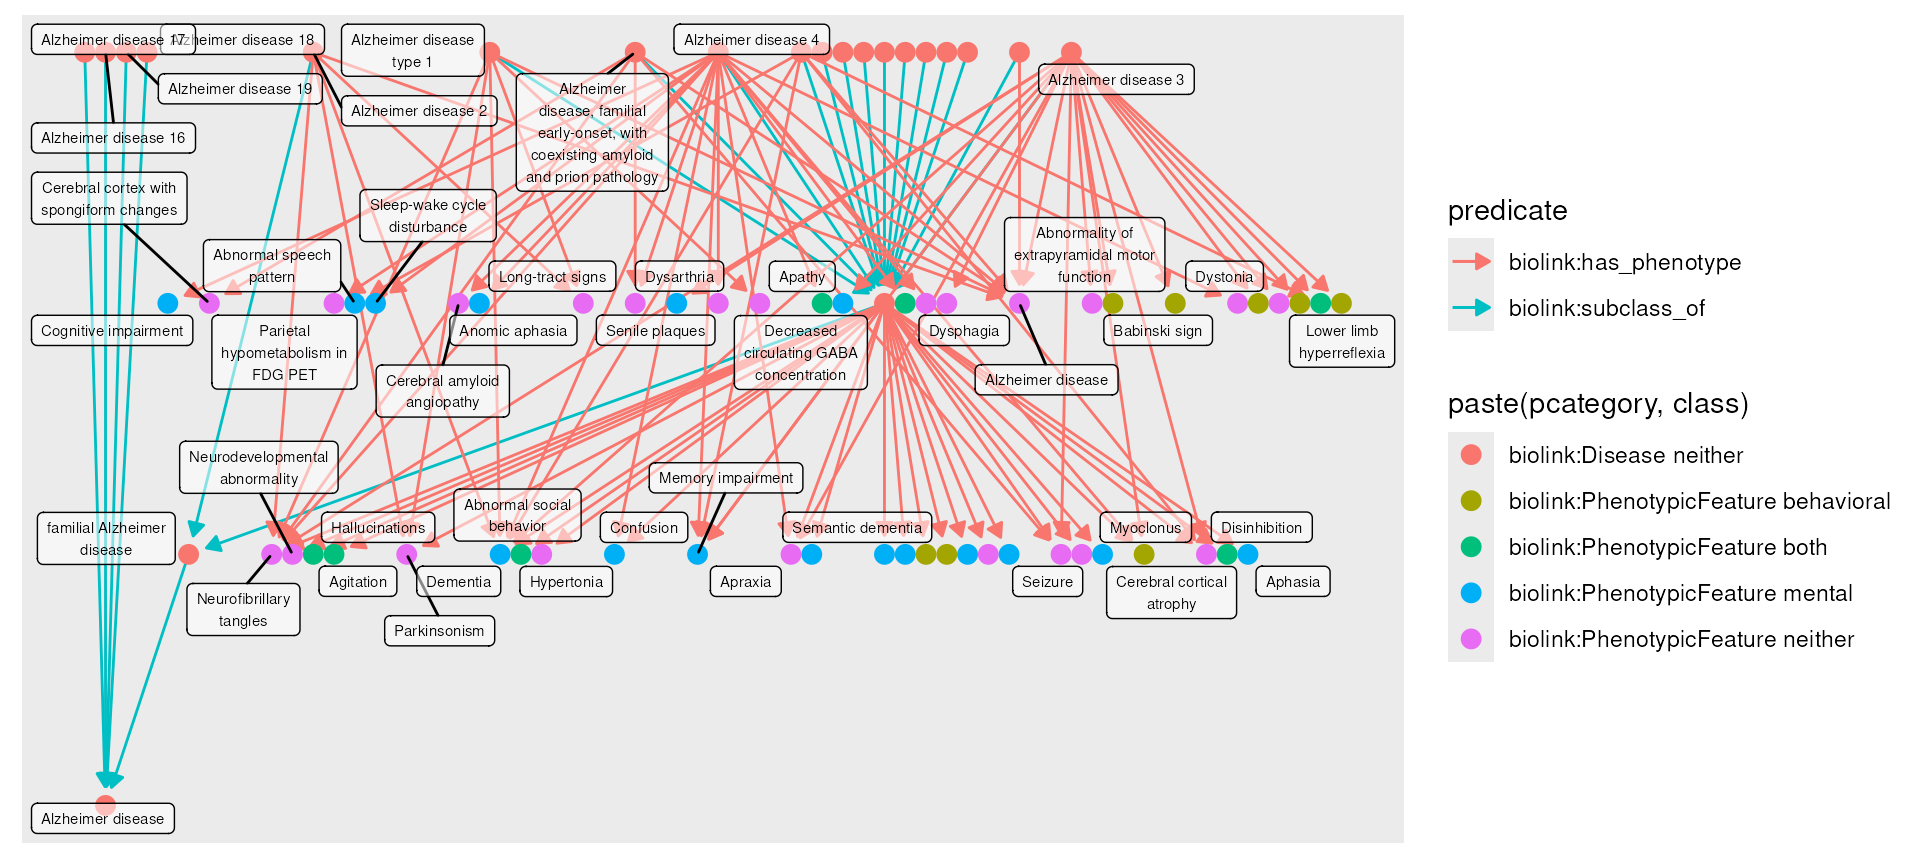
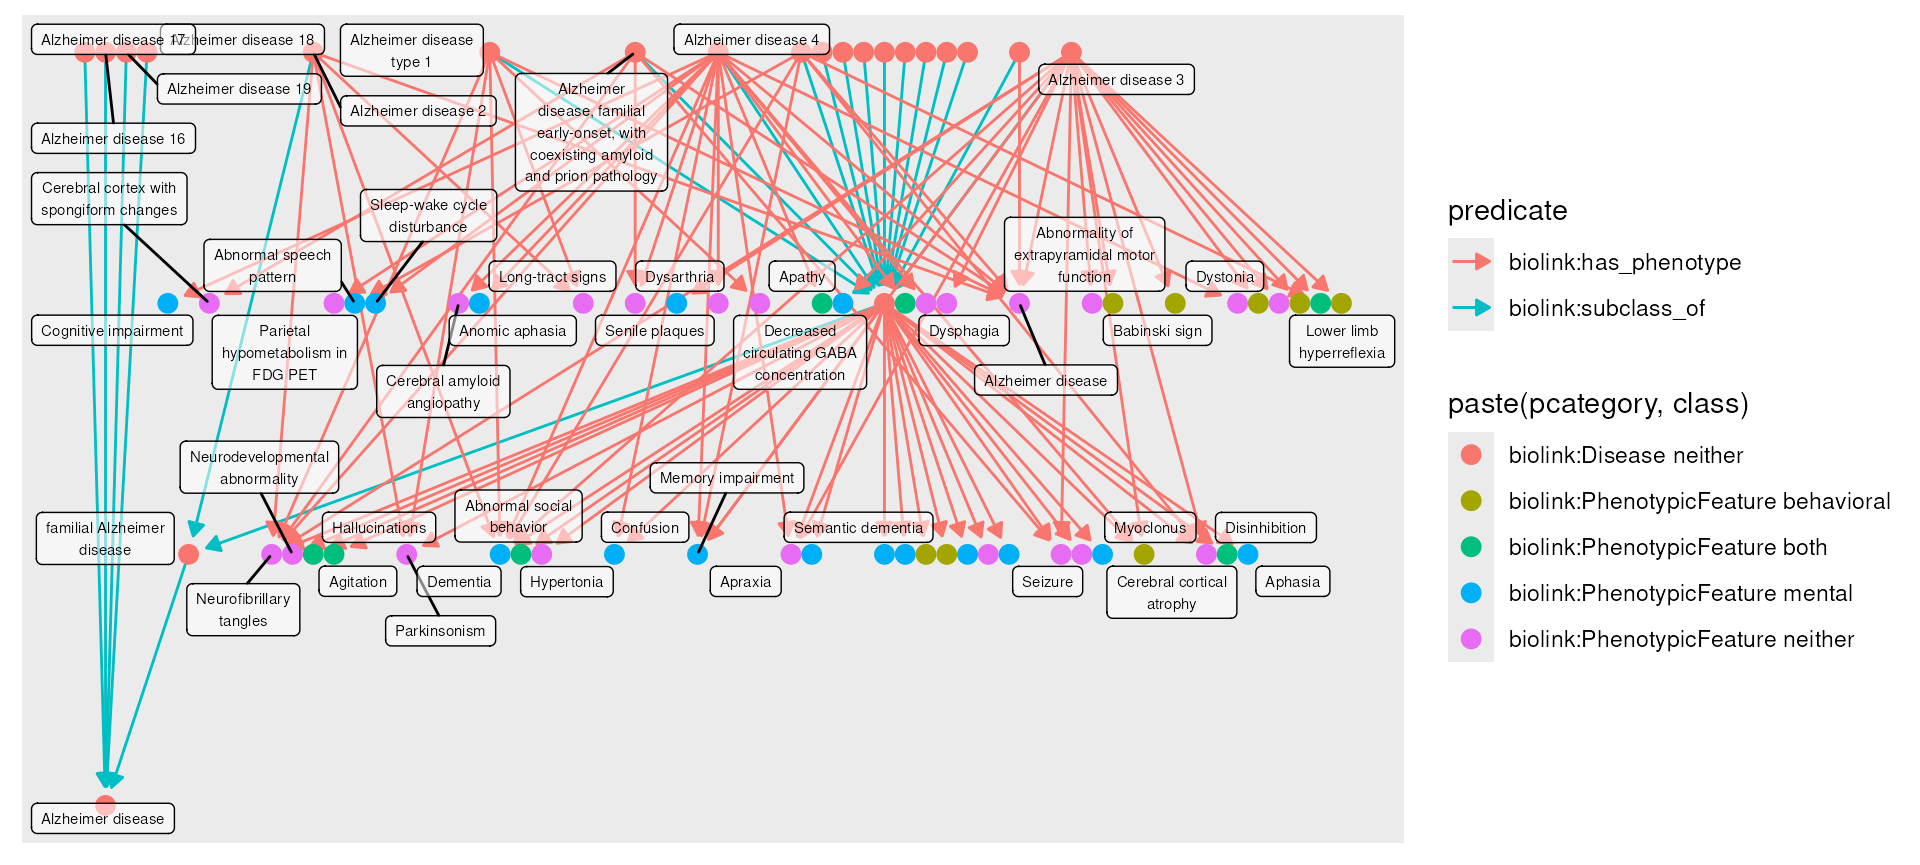
Deploying to gh-pages from @ monarch-initiative/monarchr@cc7a4bdd989ae4a79e88bc9514075943f1a7840e 🚀

diff --git a/reference/monarch_semsim.html b/reference/monarch_semsim.html
@@ -160,11 +160,11 @@ the best matches from the second graph to the first graph.</p>
 <span class="r-msg co"><span class="r-pr">#&gt;</span> Joining with `by = join_by(id, pcategory, name, description, synonym, category,</span>
 <span class="r-msg co"><span class="r-pr">#&gt;</span> iri, xref, namespace, provided_by)`</span>
 <span class="r-in"><span><span class="fu"><a href="https://rdrr.io/r/base/print.html" class="external-link">print</a></span><span class="op">(</span><span class="va">sim</span><span class="op">)</span></span></span>
-<span class="r-out co"><span class="r-pr">#&gt;</span> <span style="color: #949494;"># A tbl_graph: 135 nodes and 107 edges</span></span>
+<span class="r-out co"><span class="r-pr">#&gt;</span> <span style="color: #949494;"># A tbl_graph: 134 nodes and 107 edges</span></span>
 <span class="r-out co"><span class="r-pr">#&gt;</span> <span style="color: #949494;">#</span></span>
-<span class="r-out co"><span class="r-pr">#&gt;</span> <span style="color: #949494;"># A directed multigraph with 40 components</span></span>
+<span class="r-out co"><span class="r-pr">#&gt;</span> <span style="color: #949494;"># A directed multigraph with 39 components</span></span>
 <span class="r-out co"><span class="r-pr">#&gt;</span> <span style="color: #949494;">#</span></span>
-<span class="r-out co"><span class="r-pr">#&gt;</span> <span style="color: #949494;"># Node Data: 135 × 10 (active)</span></span>
+<span class="r-out co"><span class="r-pr">#&gt;</span> <span style="color: #949494;"># Node Data: 134 × 10 (active)</span></span>
 <span class="r-out co"><span class="r-pr">#&gt;</span>    id         pcategory name  description synonym category iri   xref  namespace</span>
 <span class="r-out co"><span class="r-pr">#&gt;</span>    <span style="color: #949494; font-style: italic;">&lt;chr&gt;</span>      <span style="color: #949494; font-style: italic;">&lt;chr&gt;</span>     <span style="color: #949494; font-style: italic;">&lt;chr&gt;</span> <span style="color: #949494; font-style: italic;">&lt;chr&gt;</span>       <span style="color: #949494; font-style: italic;">&lt;named&gt;</span> <span style="color: #949494; font-style: italic;">&lt;list&gt;</span>   <span style="color: #949494; font-style: italic;">&lt;chr&gt;</span> <span style="color: #949494; font-style: italic;">&lt;nam&gt;</span> <span style="color: #949494; font-style: italic;">&lt;chr&gt;</span>    </span>
 <span class="r-out co"><span class="r-pr">#&gt;</span> <span style="color: #BCBCBC;"> 1</span> MONDO:000… biolink:… Marf… A disorder… <span style="color: #949494;">&lt;chr&gt;</span>   <span style="color: #949494;">&lt;chr&gt;</span>    http… <span style="color: #949494;">&lt;chr&gt;</span> MONDO    </span>
@@ -177,15 +177,15 @@ the best matches from the second graph to the first graph.</p>
 <span class="r-out co"><span class="r-pr">#&gt;</span> <span style="color: #BCBCBC;"> 8</span> HP:0003199 biolink:… Decr… <span style="color: #BB0000;">NA</span>          <span style="color: #949494;">&lt;chr&gt;</span>   <span style="color: #949494;">&lt;chr&gt;</span>    http… <span style="color: #949494;">&lt;chr&gt;</span> HP       </span>
 <span class="r-out co"><span class="r-pr">#&gt;</span> <span style="color: #BCBCBC;"> 9</span> HP:0025586 biolink:… Hype… A type of … <span style="color: #949494;">&lt;lgl&gt;</span>   <span style="color: #949494;">&lt;chr&gt;</span>    http… <span style="color: #949494;">&lt;lgl&gt;</span> HP       </span>
 <span class="r-out co"><span class="r-pr">#&gt;</span> <span style="color: #BCBCBC;">10</span> HP:0000518 biolink:… Cata… A cataract… <span style="color: #949494;">&lt;chr&gt;</span>   <span style="color: #949494;">&lt;chr&gt;</span>    http… <span style="color: #949494;">&lt;chr&gt;</span> HP       </span>
-<span class="r-out co"><span class="r-pr">#&gt;</span> <span style="color: #949494;"># ℹ 125 more rows</span></span>
+<span class="r-out co"><span class="r-pr">#&gt;</span> <span style="color: #949494;"># ℹ 124 more rows</span></span>
 <span class="r-out co"><span class="r-pr">#&gt;</span> <span style="color: #949494;"># ℹ 1 more variable: provided_by &lt;named list&gt;</span></span>
 <span class="r-out co"><span class="r-pr">#&gt;</span> <span style="color: #949494;">#</span></span>
 <span class="r-out co"><span class="r-pr">#&gt;</span> <span style="color: #949494;"># Edge Data: 107 × 8</span></span>
 <span class="r-out co"><span class="r-pr">#&gt;</span>    from    to subject    predicate             object   metric score ancestor_id</span>
 <span class="r-out co"><span class="r-pr">#&gt;</span>   <span style="color: #949494; font-style: italic;">&lt;int&gt;</span> <span style="color: #949494; font-style: italic;">&lt;int&gt;</span> <span style="color: #949494; font-style: italic;">&lt;chr&gt;</span>      <span style="color: #949494; font-style: italic;">&lt;chr&gt;</span>                 <span style="color: #949494; font-style: italic;">&lt;chr&gt;</span>    <span style="color: #949494; font-style: italic;">&lt;chr&gt;</span>  <span style="color: #949494; font-style: italic;">&lt;dbl&gt;</span> <span style="color: #949494; font-style: italic;">&lt;chr&gt;</span>      </span>
-<span class="r-out co"><span class="r-pr">#&gt;</span> <span style="color: #BCBCBC;">1</span>   107   112 HP:0000006 computed:best_matches HP:0002… ances…  4.33 HP:0000001 </span>
+<span class="r-out co"><span class="r-pr">#&gt;</span> <span style="color: #BCBCBC;">1</span>   107   125 HP:0000006 computed:best_matches HP:0002… ances…  4.33 HP:0000001 </span>
 <span class="r-out co"><span class="r-pr">#&gt;</span> <span style="color: #BCBCBC;">2</span>    84    84 HP:0000023 computed:best_matches HP:0000… ances… 18.5  HP:0000023 </span>
-<span class="r-out co"><span class="r-pr">#&gt;</span> <span style="color: #BCBCBC;">3</span>    24   115 HP:0000098 computed:best_matches HP:0000… ances…  6.25 UPHENO:000…</span>
+<span class="r-out co"><span class="r-pr">#&gt;</span> <span style="color: #BCBCBC;">3</span>    24   116 HP:0000098 computed:best_matches HP:0000… ances…  6.25 UPHENO:000…</span>
 <span class="r-out co"><span class="r-pr">#&gt;</span> <span style="color: #949494;"># ℹ 104 more rows</span></span>
 <span class="r-in"><span></span></span>
 <span class="r-in"><span><span class="co"># also inclue the unmatched targets</span></span></span>
@@ -218,7 +218,7 @@ the best matches from the second graph to the first graph.</p>
 <span class="r-out co"><span class="r-pr">#&gt;</span> <span style="color: #949494;"># Edge Data: 107 × 8</span></span>
 <span class="r-out co"><span class="r-pr">#&gt;</span>    from    to subject    predicate             object   metric score ancestor_id</span>
 <span class="r-out co"><span class="r-pr">#&gt;</span>   <span style="color: #949494; font-style: italic;">&lt;int&gt;</span> <span style="color: #949494; font-style: italic;">&lt;int&gt;</span> <span style="color: #949494; font-style: italic;">&lt;chr&gt;</span>      <span style="color: #949494; font-style: italic;">&lt;chr&gt;</span>                 <span style="color: #949494; font-style: italic;">&lt;chr&gt;</span>    <span style="color: #949494; font-style: italic;">&lt;chr&gt;</span>  <span style="color: #949494; font-style: italic;">&lt;dbl&gt;</span> <span style="color: #949494; font-style: italic;">&lt;chr&gt;</span>      </span>
-<span class="r-out co"><span class="r-pr">#&gt;</span> <span style="color: #BCBCBC;">1</span>   107   153 HP:0000006 computed:best_matches HP:0010… ances…  4.33 HP:0000001 </span>
+<span class="r-out co"><span class="r-pr">#&gt;</span> <span style="color: #BCBCBC;">1</span>   107   145 HP:0000006 computed:best_matches HP:0003… ances…  4.33 HP:0000001 </span>
 <span class="r-out co"><span class="r-pr">#&gt;</span> <span style="color: #BCBCBC;">2</span>    84    84 HP:0000023 computed:best_matches HP:0000… ances… 18.5  HP:0000023 </span>
 <span class="r-out co"><span class="r-pr">#&gt;</span> <span style="color: #BCBCBC;">3</span>    24   126 HP:0000098 computed:best_matches HP:0000… ances…  6.25 UPHENO:000…</span>
 <span class="r-out co"><span class="r-pr">#&gt;</span> <span style="color: #949494;"># ℹ 104 more rows</span></span>
@@ -232,7 +232,7 @@ the best matches from the second graph to the first graph.</p>
 <span class="r-in"><span><span class="fu"><a href="https://rdrr.io/r/base/print.html" class="external-link">print</a></span><span class="op">(</span><span class="va">sim</span><span class="op">)</span></span></span>
 <span class="r-out co"><span class="r-pr">#&gt;</span> <span style="color: #949494;"># A tbl_graph: 162 nodes and 174 edges</span></span>
 <span class="r-out co"><span class="r-pr">#&gt;</span> <span style="color: #949494;">#</span></span>
-<span class="r-out co"><span class="r-pr">#&gt;</span> <span style="color: #949494;"># A directed multigraph with 28 components</span></span>
+<span class="r-out co"><span class="r-pr">#&gt;</span> <span style="color: #949494;"># A directed multigraph with 27 components</span></span>
 <span class="r-out co"><span class="r-pr">#&gt;</span> <span style="color: #949494;">#</span></span>
 <span class="r-out co"><span class="r-pr">#&gt;</span> <span style="color: #949494;"># Node Data: 162 × 10 (active)</span></span>
 <span class="r-out co"><span class="r-pr">#&gt;</span>    id         pcategory name  description synonym category iri   xref  namespace</span>
@@ -253,7 +253,7 @@ the best matches from the second graph to the first graph.</p>
 <span class="r-out co"><span class="r-pr">#&gt;</span> <span style="color: #949494;"># Edge Data: 174 × 8</span></span>
 <span class="r-out co"><span class="r-pr">#&gt;</span>    from    to subject    predicate             object   metric score ancestor_id</span>
 <span class="r-out co"><span class="r-pr">#&gt;</span>   <span style="color: #949494; font-style: italic;">&lt;int&gt;</span> <span style="color: #949494; font-style: italic;">&lt;int&gt;</span> <span style="color: #949494; font-style: italic;">&lt;chr&gt;</span>      <span style="color: #949494; font-style: italic;">&lt;chr&gt;</span>                 <span style="color: #949494; font-style: italic;">&lt;chr&gt;</span>    <span style="color: #949494; font-style: italic;">&lt;chr&gt;</span>  <span style="color: #949494; font-style: italic;">&lt;dbl&gt;</span> <span style="color: #949494; font-style: italic;">&lt;chr&gt;</span>      </span>
-<span class="r-out co"><span class="r-pr">#&gt;</span> <span style="color: #BCBCBC;">1</span>   107   142 HP:0000006 computed:best_matches HP:0002… ances…  4.33 HP:0000001 </span>
+<span class="r-out co"><span class="r-pr">#&gt;</span> <span style="color: #BCBCBC;">1</span>   107   123 HP:0000006 computed:best_matches HP:0012… ances…  4.33 HP:0000001 </span>
 <span class="r-out co"><span class="r-pr">#&gt;</span> <span style="color: #BCBCBC;">2</span>    84    84 HP:0000023 computed:best_matches HP:0000… ances… 18.5  HP:0000023 </span>
 <span class="r-out co"><span class="r-pr">#&gt;</span> <span style="color: #BCBCBC;">3</span>    24   126 HP:0000098 computed:best_matches HP:0000… ances…  6.25 UPHENO:000…</span>
 <span class="r-out co"><span class="r-pr">#&gt;</span> <span style="color: #949494;"># ℹ 171 more rows</span></span>

diff --git a/articles/monarchr.html b/articles/monarchr.html
@@ -6412,21 +6412,20 @@ c(“DOID:14323”, “GARD:16535”, “ICD9:759.82”, “MEDGEN:44287”,
 </tr>
 <tr>
 <td style="text-align:left;">
-“HP:0430043”
+“HP:0000483”
 </td>
 <td style="text-align:left;">
 “biolink:PhenotypicFeature”
 </td>
 <td style="text-align:left;">
-“Thoracic lordosis”
+“Astigmatism”
 </td>
 <td style="text-align:left;min-width: 300px; ">
-“Thoracic lordosis refers to an abnormal curvature of the thoracic spine
-in which the thoracic spine displays lordosis (inward curve) instead of
-the normal kyphosis (outward curve).”
+“A type of refraction error associated with abnormal curvatures on the
+anterior and/or posterior surface of the cornea.”
 </td>
 <td style="text-align:left;min-width: 300px; ">
-NA
+c(“Abnormal curving of the cornea or lens of the eye”, “Astigmatism”)
 </td>
 <td style="text-align:left;">
 c(“biolink:BiologicalEntity”, “biolink:DiseaseOrPhenotypicFeature”,
@@ -6434,10 +6433,10 @@ c(“biolink:BiologicalEntity”, “biolink:DiseaseOrPhenotypicFeature”,
 “biolink:ThingWithTaxon”)
 </td>
 <td style="text-align:left;">
-“<a href="http://purl.obolibrary.org/obo/HP_0430043" class="external-link uri">http://purl.obolibrary.org/obo/HP_0430043</a>”
+“<a href="http://purl.obolibrary.org/obo/HP_0000483" class="external-link uri">http://purl.obolibrary.org/obo/HP_0000483</a>”
 </td>
 <td style="text-align:left;">
-NA
+c(“SNOMEDCT_US:82649003”, “UMLS:C0004106”)
 </td>
 <td style="text-align:left;">
 “HP”
@@ -6474,6 +6473,45 @@ c(“biolink:BiologicalEntity”, “biolink:DiseaseOrPhenotypicFeature”,
 </td>
 <td style="text-align:left;">
 “UMLS:C1867103”
+</td>
+<td style="text-align:left;">
+“HP”
+</td>
+<td style="text-align:left;">
+“phenio_nodes”
+</td>
+</tr>
+<tr>
+<td style="text-align:left;">
+“HP:0000486”
+</td>
+<td style="text-align:left;">
+“biolink:PhenotypicFeature”
+</td>
+<td style="text-align:left;">
+“Strabismus”
+</td>
+<td style="text-align:left;min-width: 300px; ">
+“A misalignment of the eyes so that the visual axes deviate from
+bifoveal fixation. The classification of strabismus may be based on a
+number of features including the relative position of the eyes, whether
+the deviation is latent or manifest, intermittent or constant,
+concomitant or otherwise and according to the age of onset and the
+relevance of any associated refractive error.”
+</td>
+<td style="text-align:left;min-width: 300px; ">
+c(“Cross-eyed”, “Squint”, “Squint eyes”)
+</td>
+<td style="text-align:left;">
+c(“biolink:BiologicalEntity”, “biolink:DiseaseOrPhenotypicFeature”,
+“biolink:Entity”, “biolink:NamedThing”, “biolink:PhenotypicFeature”,
+“biolink:ThingWithTaxon”)
+</td>
+<td style="text-align:left;">
+“<a href="http://purl.obolibrary.org/obo/HP_0000486" class="external-link uri">http://purl.obolibrary.org/obo/HP_0000486</a>”
+</td>
+<td style="text-align:left;">
+c(“SNOMEDCT_US:128602000”, “SNOMEDCT_US:22066006”, “UMLS:C0038379”)
 </td>
 <td style="text-align:left;">
 “HP”
@@ -6558,40 +6596,6 @@ c(“SNOMEDCT_US:203598005”, “SNOMEDCT_US:385522000”,
 “phenio_nodes”
 </td>
 </tr>
-<tr>
-<td style="text-align:left;">
-“HP:0003199”
-</td>
-<td style="text-align:left;">
-“biolink:PhenotypicFeature”
-</td>
-<td style="text-align:left;">
-“Decreased muscle mass”
-</td>
-<td style="text-align:left;min-width: 300px; ">
-NA
-</td>
-<td style="text-align:left;min-width: 300px; ">
-“Decreased muscle mass”
-</td>
-<td style="text-align:left;">
-c(“biolink:BiologicalEntity”, “biolink:DiseaseOrPhenotypicFeature”,
-“biolink:Entity”, “biolink:NamedThing”, “biolink:PhenotypicFeature”,
-“biolink:ThingWithTaxon”)
-</td>
-<td style="text-align:left;">
-“<a href="http://purl.obolibrary.org/obo/HP_0003199" class="external-link uri">http://purl.obolibrary.org/obo/HP_0003199</a>”
-</td>
-<td style="text-align:left;">
-“UMLS:C1837108”
-</td>
-<td style="text-align:left;">
-“HP”
-</td>
-<td style="text-align:left;">
-“phenio_nodes”
-</td>
-</tr>
 </tbody>
 </table>
 </div>
@@ -6633,7 +6637,7 @@ ancestor_id
 9
 </td>
 <td style="text-align:left;">
-13
+17
 </td>
 <td style="text-align:left;">
 “HP:0000938”
@@ -6642,7 +6646,7 @@ ancestor_id
 “computed:best_matches”
 </td>
 <td style="text-align:left;">
-“HP:0430043”
+“HP:0001371”
 </td>
 <td style="text-align:left;">
 “ancestor_information_content”
@@ -6659,7 +6663,7 @@ ancestor_id
 2
 </td>
 <td style="text-align:left;">
-17
+15
 </td>
 <td style="text-align:left;">
 “HP:0000974”
@@ -6668,7 +6672,7 @@ ancestor_id
 “computed:best_matches”
 </td>
 <td style="text-align:left;">
-“HP:0003199”
+“HP:0000486”
 </td>
 <td style="text-align:left;">
 “ancestor_information_content”
@@ -6711,7 +6715,7 @@ ancestor_id
 4
 </td>
 <td style="text-align:left;">
-15
+16
 </td>
 <td style="text-align:left;">
 “HP:0001030”
@@ -6737,7 +6741,7 @@ ancestor_id
 10
 </td>
 <td style="text-align:left;">
-14
+13
 </td>
 <td style="text-align:left;">
 “HP:0001058”
@@ -6746,7 +6750,7 @@ ancestor_id
 “computed:best_matches”
 </td>
 <td style="text-align:left;">
-“HP:0001377”
+“HP:0000483”
 </td>
 <td style="text-align:left;">
 “ancestor_information_content”
@@ -6763,7 +6767,7 @@ ancestor_id
 5
 </td>
 <td style="text-align:left;">
-16
+17
 </td>
 <td style="text-align:left;">
 “HP:0001065”
@@ -6789,7 +6793,7 @@ ancestor_id
 6
 </td>
 <td style="text-align:left;">
-16
+17
 </td>
 <td style="text-align:left;">
 “HP:0001073”
@@ -6815,7 +6819,7 @@ ancestor_id
 7
 </td>
 <td style="text-align:left;">
-16
+17
 </td>
 <td style="text-align:left;">
 “HP:0001075”
@@ -6850,7 +6854,7 @@ ancestor_id
 “computed:best_matches”
 </td>
 <td style="text-align:left;">
-“HP:0003199”
+“HP:0001371”
 </td>
 <td style="text-align:left;">
 “ancestor_information_content”
